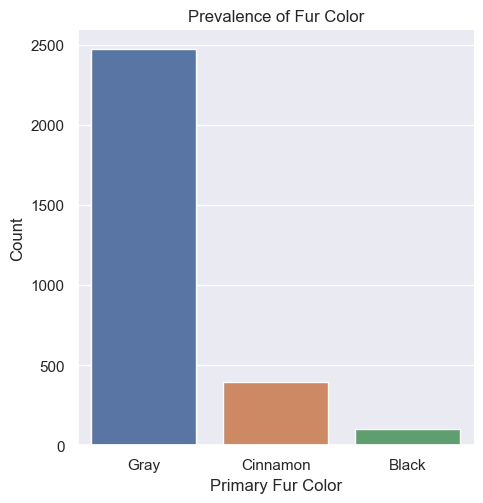
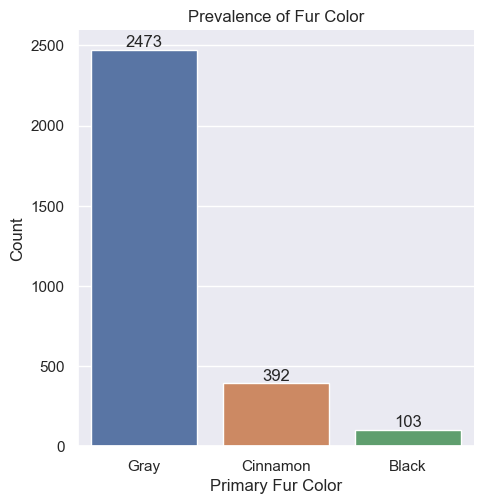
added labels to question 2 bar charts

diff --git a/mainproject.py b/mainproject.py
@@ -44,12 +44,9 @@ def plot_squirrel_sightings(df: pd.DataFrame, shape_file: Any) -> None:
     updated_shape = shape_file.to_crs(epsg=3857)
     shape_file = updated_shape.plot(ax=ax, alpha=0, color='#FFFFFF')
     cx.add_basemap(shape_file, alpha=0.5)
-    # cx.add_basemap(ax, source=cx.providers.Stamen.TonerLabels)
-    # ax.set_axis_off()
+    ax.set_axis_off()
 
     new = updated_df.to_crs(epsg=3857)
-    # df = data_new.plot(ax=ax, column='Unique Squirrel ID', marker='.',
-    # markersize=4, cmap='Spectral', legend=True)
     new = new.plot(ax=ax, column='Unique Squirrel ID', marker='.',
                    markersize=4, legend=True)
     plt.title('Squirrel Population in Central Park')
@@ -64,7 +61,10 @@ def plot_common_fur_colors(df: pd.DataFrame) -> None:
     """
     fur_color = df['Primary Fur Color'].value_counts().rename_axis('Primary Fur Color').reset_index(name='counts')
 
-    sns.catplot(data=fur_color, x='Primary Fur Color', y='counts', kind='bar')
+    fplot = sns.catplot(data=fur_color, x='Primary Fur Color', y='counts', kind='bar')
+    ax = fplot.facet_axis(0, 0)
+    ax.bar_label(ax.containers[0])
+
     plt.ylabel('Count')
     plt.title('Prevalence of Fur Color')
     plt.savefig('fur_color_plot.png', bbox_inches='tight')
@@ -76,8 +76,11 @@ def plot_common_highlight_colors(df: pd.DataFrame) -> None:
     most common highlight colors. Returns None.
     """
     highlight_color = df['Highlight Fur Color'].value_counts().rename_axis('Highlight Fur Color').reset_index(name='counts')
-    sns.catplot(data=highlight_color, x='Highlight Fur Color', y='counts',
+    hplot = sns.catplot(data=highlight_color, x='Highlight Fur Color', y='counts',
                 kind='bar')
+    ax = hplot.facet_axis(0, 0)
+    ax.bar_label(ax.containers[0])
+    
     plt.ylabel('Count')
     plt.xticks(rotation='vertical')
     plt.title('Prevalence of Fur Highlight Color')
@@ -95,12 +98,13 @@ def plot_common_behaviors(df: pd.DataFrame) -> None:
 
     fig, [ax1, ax2, ax3] = plt.subplots(ncols=3)
 
-    approach.plot(ax=ax1, x='Approaches', kind='bar', stacked=True,
-                  figsize=(10, 7), legend=False)
-    indifferent.plot(ax=ax2, x='Indifferent', kind='bar', stacked=True,
-                     figsize=(10, 7), legend=False, title='Behavior Types')
-    runs_from.plot(ax=ax3, x='Runs From', kind='bar', stacked=True,
-                   figsize=(10, 7), legend=False)
+    ax1 = approach.plot(ax=ax1, x='Approaches', kind='bar', stacked=True, figsize=(10, 7), legend=False)
+    ax2 = indifferent.plot(ax=ax2, x='Indifferent', kind='bar', stacked=True, figsize=(10, 7), legend=False, title='Behavior Types')
+    ax3 = runs_from.plot(ax=ax3, x='Runs From', kind='bar', stacked=True, figsize=(10, 7), legend=False)
+
+    ax1.bar_label(ax1.containers[0], label_type='edge')
+    ax2.bar_label(ax2.containers[0], label_type='edge')
+    ax3.bar_label(ax3.containers[0], label_type='edge')
 
     plt.savefig('behavior_type_plot.png', bbox_inches='tight')
 
